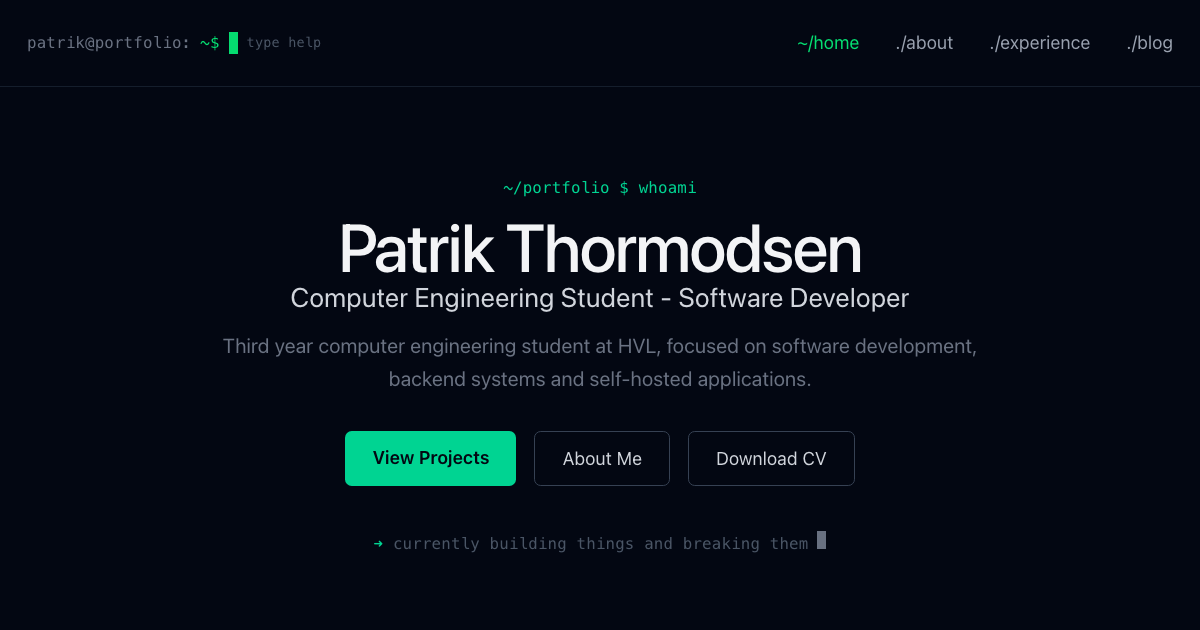
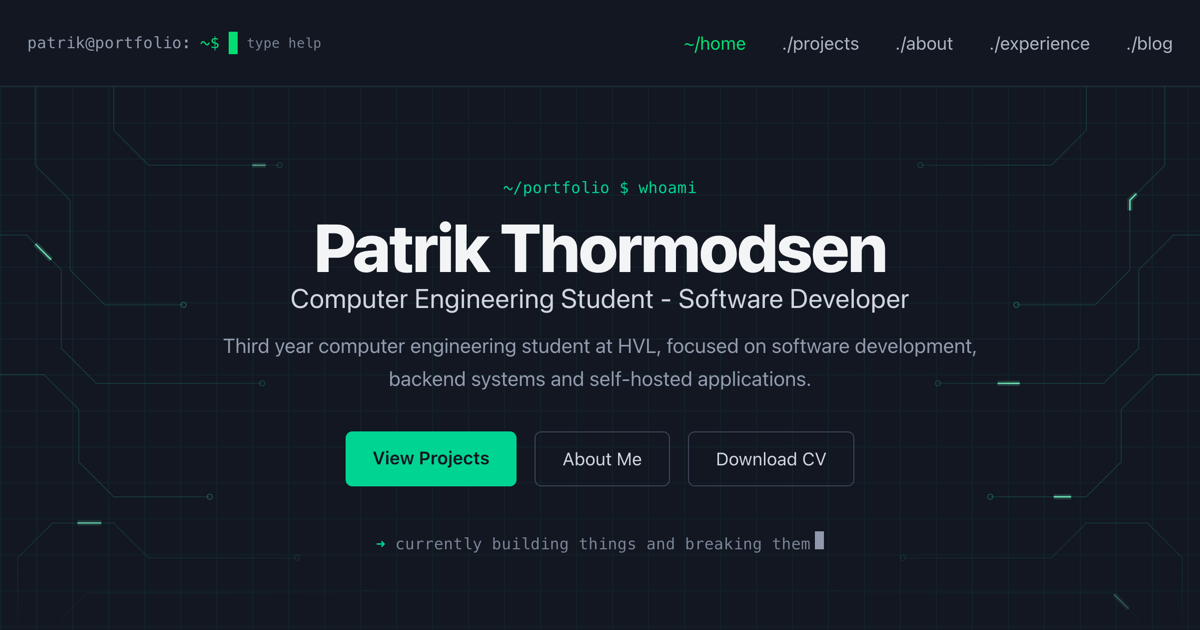
Updated OG image

diff --git a/index.html b/index.html
@@ -22,7 +22,7 @@
     />
     <meta property="og:type" content="website" />
     <meta property="og:url" content="https://portfolio.patreek.no/" />
-    <meta property="og:image" content="https://portfolio.patreek.no/og-image.png" />
+    <meta property="og:image" content="https://portfolio.patreek.no/og-image.png?v=2" />
     <meta property="og:image:width" content="1200" />
     <meta property="og:image:height" content="630" />
     <meta property="og:image:alt" content="Patrik Thormodsen - Computer Engineering Student and Software Developer" />
